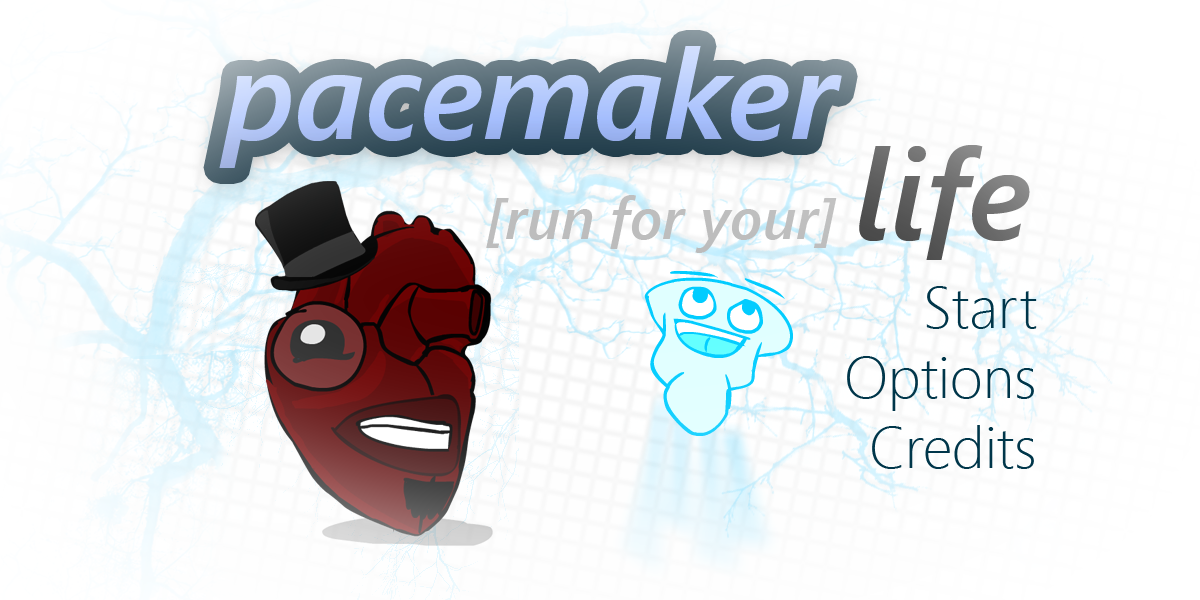
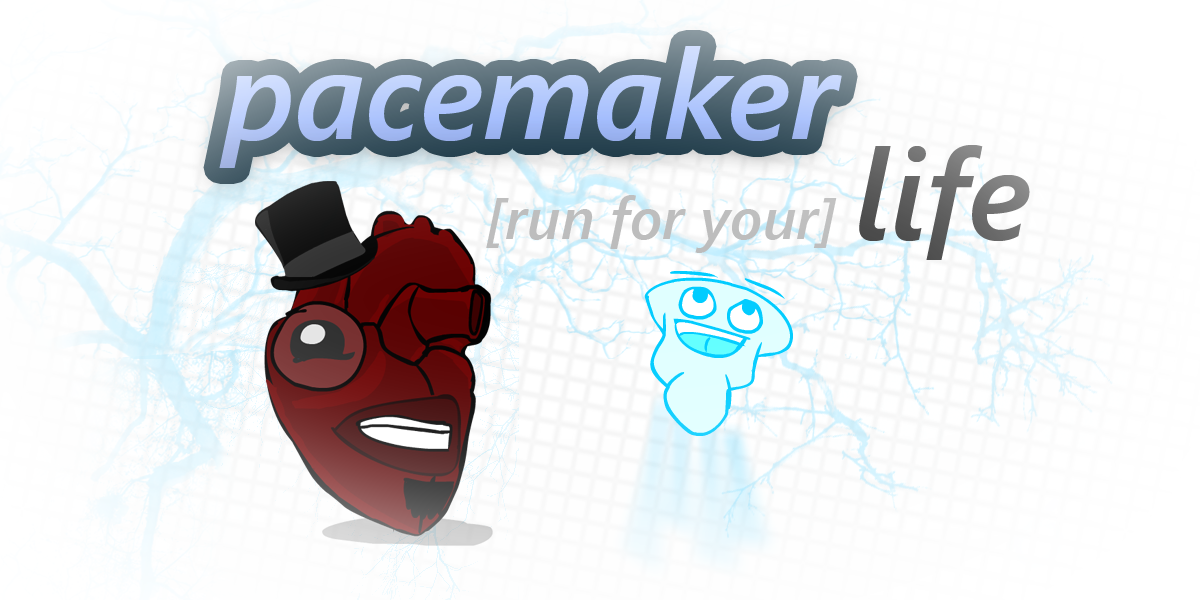
Improved Button Framework

Changed region(s): [[0.7092, 0.6, 0.8633, 0.69], [0.7092, 0.72, 0.8633, 0.78], [0.7708, 0.48, 0.8633, 0.57]]

diff --git a/setup.js b/setup.js
@@ -147,6 +147,85 @@ background2.src = 			"./Images/test_background2.png";
 	////////////////////////////////////////////////////////////////////////////////////////// SETTING THINGS UP INITIALLY
 function begin_game() {
 
+
+	Controller = new Control();
+
+gamepad.bind(Gamepad.Event.CONNECTED, function(device) {
+    // a new gamepad connected
+});
+
+gamepad.bind(Gamepad.Event.DISCONNECTED, function(device) {
+    // gamepad disconnected
+});
+
+gamepad.bind(Gamepad.Event.UNSUPPORTED, function(device) {
+    // an unsupported gamepad connected (add new mapping)
+});
+
+
+gamepad.bind(Gamepad.Event.TICK, function(gamepads) {
+    // gamepads were updated (around 60 times a second)
+
+	for (control in gamepads[0].state) {
+		//value = gamepads[i].state[control];
+		
+		if(gamepads[0].state['A']){
+			ControllerUse = true;
+			Controller.space = true;
+		} else if(gamepadSupport && ControllerUse){
+			Controller.space = false;
+		}
+
+		if(gamepads[0].state['X']){
+			ControllerUse = true;
+			Controller.shift = true;
+		} else if(gamepadSupport && ControllerUse) {
+			Controller.shift = false;
+		}
+
+		if(gamepads[0].state['DPAD_LEFT']){
+			ControllerUse = true;
+			Controller.left = true;
+		} else if(gamepadSupport && ControllerUse) {
+			Controller.left = false;
+		}
+
+		if(gamepads[0].state['DPAD_RIGHT']){
+			ControllerUse = true;
+			Controller.right = true;
+		} else if(gamepadSupport && ControllerUse) {
+			Controller.right = false;
+		}
+
+		if(gamepads[0].state['DPAD_UP']){
+			ControllerUse = true;
+			Controller.up = true;
+		} else if(gamepadSupport && ControllerUse) {
+			Controller.up = false;
+		}
+
+		if(gamepads[0].state['DPAD_DOWN']){
+			ControllerUse = true;
+			Controller.down = true;
+		} else if(gamepadSupport && ControllerUse) {
+			Controller.down = false;
+		}
+	}
+
+
+
+});
+
+if (!gamepad.init()) {
+    gamepadSupport = false;
+}
+
+
+
+console.log(gamepad);
+
+
+
 	canvas = document.getElementById("draw_canvas");
 	ctx = canvas.getContext("2d");
 
@@ -191,19 +270,19 @@ function begin_game() {
 
 	//Syntax for buttons --> What Gamestate it is at _ What Gamestate it is going to
 	//GAMESTATE_START
-	Button_Start_Play = new Button(916, 280, 120, 50, "Play Game", ctx, true);
-	Button_Start_Options = new Button(856, 355, 180, 50, "Options", ctx, true);
-	Button_Start_Credits = new Button(876, 430, 160, 50, "Credz", ctx, true);
+	Button_Start_Play = new Button(900, 280, 120, 50, "Play", ctx, false, "#000000");
+	Button_Start_Options = new Button(900, 355, 180, 50, "Options", ctx, false,"#000000");
+	Button_Start_Credits = new Button(900, 430, 160, 50, "Credz", ctx, false,"#000000");
 
 	//GAMESTATE_GAMEPLAY
-	Button_Gameplay_Reset = new Button(1000, 10, 120, 30, "Reset Game", ctx, false);
-	Button_Gameplay_Options = new Button(850, 10, 100, 30, "Options", ctx, false);
+	Button_Gameplay_Reset = new Button(900, 10, 120, 30, "Reset", ctx, false,"#FFFFFF");
+	Button_Gameplay_Options = new Button(1000, 10, 100, 30, "Options", ctx, false,"#FFFFFF");
 
 	//GAMESTATE_OPTIONS
-	Button_Options_Start = new Button(550, 500, 100, 30, "Main Menu", ctx, false);
+	Button_Options_Start = new Button(550, 500, 100, 30, "Menu", ctx, false, "#000000");
 
 	//GAMESTATE_CREDITS
-	Button_Credits_MainMenu = new Button(500, 500, 100, 30, "Main Menu", ctx, false);
+	Button_Credits_MainMenu = new Button(500, 500, 100, 30, "Menu", ctx, false,"#000000");
 
 	imageMap = new Array(map.length);
 

diff --git a/button.js b/button.js
@@ -1,39 +1,60 @@
 /////////////////////////////////////////////////////////////////////////////////GODDAMN AWESOME AS SHIT BUTTONS (not really)
-function Button(x_pos, y_pos, b_width, b_height, b_text, b_ctx, b_isTrans) {
+function Button(x_pos, y_pos, b_width, b_height, b_text, b_ctx, b_isTrans,textColor) {
 	this.x = x_pos;
 	this.y = y_pos;
 	this.width = b_width;
 	this.height = b_height;
 	this.text = b_text;
 	this.ctx = b_ctx;
-	this.draw = draw;
-	this.fill = "#E7D9C1";
-	this.stroke = "#000000";
-	this.clicked = clicked;
-	this.isTrans = b_isTrans;
+	this.trueFill = textColor;
+	this.trueStroke = textColor;
+	this.currentFill = textColor;
+	this.currentStroke = textColor;
 
-	function draw(){
+	this.isTrans = b_isTrans;
+	this.alpha = 100;
+	this.hovered = false;
+
+	this.draw = function(){
 		if (!this.isTrans) { // Used to make actual buttons invisible because text is an image
-		this.ctx.fillStyle = this.fill;
-		this.ctx.strokeStyle = this.stroke;
-		this.ctx.lineWidth   = 1;
-		this.ctx.font = '20px Calibri';
+		this.ctx.fillStyle = this.currentFill;
+		this.ctx.strokeStyle = this.currentStroke;
+		this.ctx.font = '20px Roboto Condensed';
 
 		var textWidth = this.ctx.measureText(this.text).width;
 		var textHeight = this.ctx.measureText(this.text).height;
 
-		var textX = this.x + this.width/2 - textWidth/2;
+		//var textX = this.x ;//+ this.width/2 - textWidth/2;
 
+    	//this.ctx.fillRect(this.x, this.y, this.width, this.height);
+    	//this.ctx.strokeRect(this.x, this.y, this.width, this.height);
 
-    	this.ctx.fillRect(this.x, this.y, this.width, this.height);
-    	this.ctx.strokeRect(this.x, this.y, this.width, this.height);
-
-    	this.ctx.fillStyle = this.stroke;
-    	this.ctx.fillText(this.text, textX, this.y + this.height/2 + 7);
-    };
+    	this.ctx.fillStyle = this.currentFill;
+    	this.ctx.fillText(this.text, this.x, this.y + this.height/2 + 7);
+   		}
 	}
 
-	function clicked(){
+	this.update = function(){
+		//update coloring
+		if(this.mouseOvered()){
+			this.currentFill = "#0000CC";
+			this.currentStroke = "#0000CC";
+		}
+		else{
+			this.currentFill = this.trueFill;
+			this.currentStroke = this.trueStroke;
+		}
+
+		this.draw();
+		return this.clicked();
+	}
+
+	this.mouseOvered = function(){
+		return Controller.mouse_y <= this.y+this.height && Controller.mouse_y >= this.y
+		&& Controller.mouse_x <= this.x+this.width && Controller.mouse_x >=this.x;
+	}
+
+	this.clicked = function(){
 		return Controller.click_mouse_y <= this.y+this.height && Controller.click_mouse_y >= this.y
 		&& Controller.click_mouse_x <= this.x+this.width && Controller.click_mouse_x >=this.x;
 	}

diff --git a/rendering.js b/rendering.js
@@ -30,15 +30,15 @@ function draw_game() {
 	drawUI(ctx);
 
 		////////////////////////////////////////////////////////////////////////////////////////// DRAW BUTTON
-	Button_Gameplay_Reset.draw();
-	Button_Gameplay_Options.draw();
+	//Button_Gameplay_Reset.draw();
+	//Button_Gameplay_Options.draw();
 
 	//**************************************************************************************************** Buttons
-	if(Button_Gameplay_Reset.clicked()){
+	if(Button_Gameplay_Reset.update()){
 		PlayerGame.resetGame();
 	}
 
-	if(Button_Gameplay_Options.clicked()){
+	if(Button_Gameplay_Options.update()){
 		PlayerGame.state = GAMESTATE_OPTIONS;
 	}
 		////////////////////////////////////////////////////////////////////////////////////////// DRAW SEXY GRID
@@ -75,9 +75,9 @@ function draw_world() {
 	} else if(PlayerGame.state == GAMESTATE_OPTIONS){
 
 		ctx.drawImage(optionsScreen, 0, 0);
-		Button_Options_Start.draw();
+		Button_Options_Start.update();
 
-		if(Button_Options_Start.clicked()){
+		if(Button_Options_Start.update()){
 			PlayerGame.resetGame();              //reset the game so that you don't start a game at your previous progress/death
 			PlayerGame.state = GAMESTATE_START;
 		}
@@ -86,26 +86,19 @@ function draw_world() {
 
 	else if(PlayerGame.state == GAMESTATE_START){
 		ctx.drawImage(startScreen, 0, 0);
-		Button_Start_Options.draw();
-		Button_Start_Credits.draw();
-		Button_Start_Play.draw();
 
 
-		if(Button_Start_Play.clicked()){
-			PlayerGame.state = GAMESTATE_GAMEPLAY;
-					
+		if(Button_Start_Play.update()){
+			PlayerGame.state = GAMESTATE_GAMEPLAY;			
 		}	
 		
-		
-		if(Button_Start_Credits.clicked())
-		{
+		if(Button_Start_Credits.update()){
 			PlayerGame.state = GAMESTATE_CREDITS;	
 		}
 		
+		if(Button_Start_Options.update()){
+			PlayerGame.state = GAMESTATE_OPTIONS;			
 
-		if(Button_Start_Options.clicked()){
-			PlayerGame.state = GAMESTATE_OPTIONS;
-					
 		}	
 
 	}else if(PlayerGame.state == GAMESTATE_CREDITS){
@@ -116,6 +109,7 @@ function draw_world() {
 	    ctx.drawImage(creditNameAlex,     50, 150, 200, 100);
 		ctx.drawImage(creditNameNick,     50, 250, 200, 100);
 		//right side
+
         ctx.drawImage(creditNameJason, 350, 125, 200, 100);
         ctx.drawImage(creditNameJesse, 350, 300, 200, 100);
 
@@ -147,7 +141,8 @@ function draw_world() {
 		
 		Button_Credits_MainMenu.draw();
 
-		if(Button_Credits_MainMenu.clicked()){
+
+		if(Button_Credits_MainMenu.update()){
 			PlayerGame.state = GAMESTATE_START;
 		}
 		

diff --git a/pacemaker.html b/pacemaker.html
@@ -1,11 +1,14 @@
 <!DOCTYPE html>
 <head>
+<link href='http://fonts.googleapis.com/css?family=Roboto+Condensed' rel='stylesheet' type='text/css'>
+
 <script type = "text/javascript" src="./pacemaker_map.js"></script>
 <script type = "text/javascript" src="./world_objects.js"></script>
 <script type = "text/javascript" src="./setup.js"></script>
 <script type = "text/javascript" src="./events.js"></script>
 <script type = "text/javascript" src="./button.js"></script>
 <script type = "text/javascript" src="./rendering.js"></script>
+<link href = "style.css" rel = "stylesheet" type = "stylesheet"> </link>
 <script type = "text/javascript">
 
 var fps = 60, now, lastUpdate = (new Date)*1 - 1, fpsControl = 1, x, y;
@@ -161,8 +164,8 @@ function frame(){
 	lastUpdate = now;
 	fpsControl = 60/thisFrameFPS;
 	fpsWave = 60/thisFrameFPS;
-}
 
+}
 
 
 ////////////////////////////////////////////////////////////////////////////////////////// IGNORE THESE

diff --git a/heartbeat/main.js b/heartbeat/main.js
@@ -136,7 +136,6 @@ function punch_right(){
 
 function key_down(e){
 	var target
-	console.log(e.keyCode);
 	if(!model.punchingLeft){
 	if(e.keyCode == 65){
 		punch_left();
@@ -150,7 +149,6 @@ function key_down(e){
 function mouse_move(e){
 	model.mouseX = e.clientX - model.canvas.offsetLeft;
 	model.mouseY = e.clientY - model.canvas.offsetTop;
-	
 }
 
 function mouse_down(e){

diff --git a/style.css b/style.css
@@ -1,0 +1,3 @@
+html{
+font-family: 'Roboto Condensed', sans-serif;
+}
